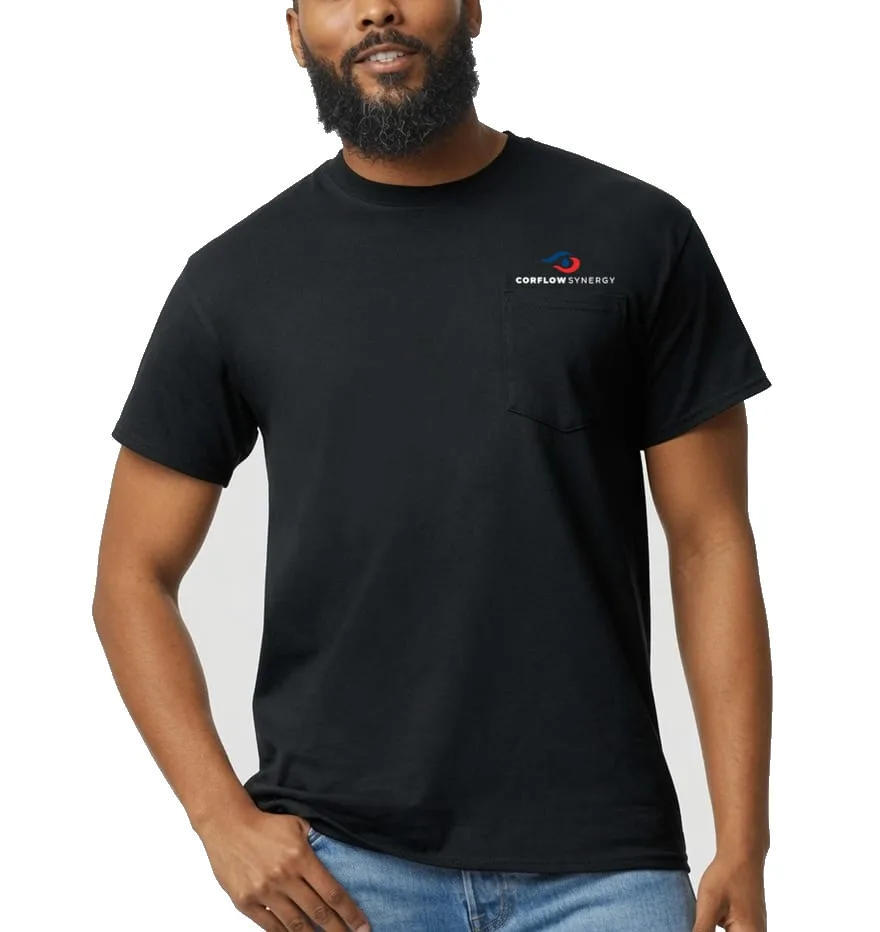
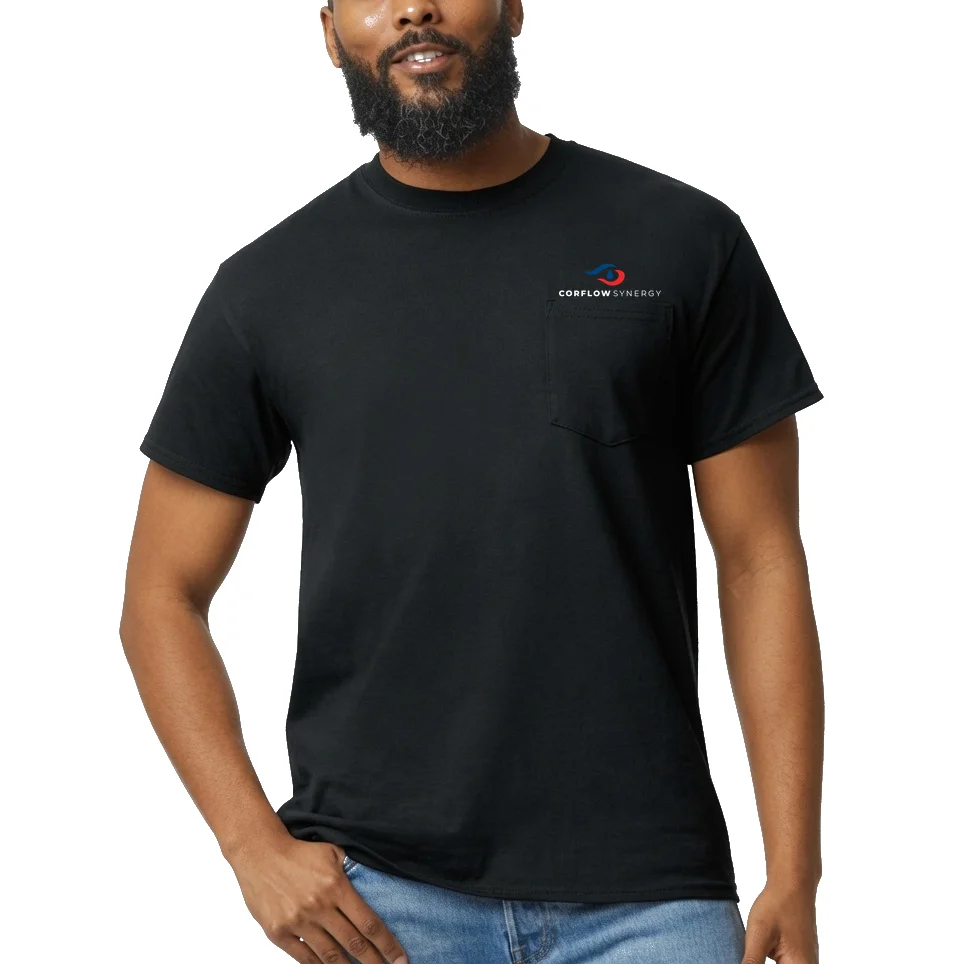
Add G2300 navy option, fix PDP category carousel, harden order confirmation
- SG-2 (Gildan 2300): add navy (#1f2a44) swatch + 4 per-portal navy
  composites; regenerate black from the same blank pipeline aligned to a
  common model bbox so black/navy crop identically and the logo doesn't
  shift on colour switch (placement x,y is the box top-left, logo
  contain-centred in the box).
- PDP "More {category}" carousel: derive the visible-category set straight
  from CLOTHING_CATEGORIES / SAFETY_CATEGORIES instead of a stale hardcoded
  map, so T-Shirts / Headwear / Accessories / Safety show their own run
  instead of falling back to "More Apparel".
- Order integrity: gate the checkout success page on Stripe
  payment_status === "paid" (payment is the source of truth) — a paid order
  always shows success and is never downgraded by a DB read issue; an
  unpaid/invalid session shows a non-success "couldn't confirm payment"
  state. Webhook now sends the confirmation email even if the DB finalize
  fails (so a paid order is always recorded) and returns 500 to let Stripe
  retry the write.

Claude-Session: https://claude.ai/code/session_01Ap4WcRUw5sFZDs2Pk52WQm

diff --git a/src/routes/checkout/success/index.tsx b/src/routes/checkout/success/index.tsx
@@ -1,7 +1,20 @@
 /**
  * Card-payment return page. Stripe redirects here with ?session_id=... after a
- * successful Checkout. The webhook is what actually finalizes the order; this
- * page just confirms to the customer and clears their cart.
+ * Checkout attempt. The webhook is what actually finalizes the order; this page
+ * CONFIRMS the outcome to the customer and clears their cart.
+ *
+ * INTEGRITY GATE — payment is the source of truth. Stripe's
+ * `payment_status === "paid"` is the ONE thing that decides success: if the
+ * customer was charged, they ALWAYS see "Thank you for your order!", because
+ * telling a paid customer their order failed is the worst possible outcome.
+ * The DB is consulted only best-effort, to show the SG order number; a DB read
+ * failure or a not-yet-finalized row NEVER downgrades a paid order to failure —
+ * the webhook (with Stripe retries) reconciles the DB write, and the order is
+ * recorded via Stripe + the confirmation email regardless.
+ *
+ * The NON-success "we couldn't confirm your payment" state shows ONLY when
+ * Stripe did not report a paid session (payment not completed, or an
+ * unknown/missing/invalid session) — i.e. no money was taken.
  */
 import { component$, useVisibleTask$ } from "@builder.io/qwik";
 import { routeLoader$, Link } from "@builder.io/qwik-city";
@@ -11,45 +24,72 @@ import { retrieveCheckoutSession } from "../../../lib/stripe";
 import { useAuthCheck } from "../../layout";
 import { portalBrand } from "../../../portals";
 
-export const useSession = routeLoader$(async ({ query, env }) => {
+interface SessionResult {
+  /** True ONLY when payment is confirmed AND the order row exists in the DB. */
+  confirmed: boolean;
+  orderNumber: string;
+  /** True once the webhook has flipped the order to 'paid' (number + email sent). */
+  finalized: boolean;
+}
+
+export const useSession = routeLoader$<SessionResult>(async ({ query, env }) => {
   // Dev simulated-payment path carries the assigned number directly (no Stripe).
+  // The order was already marked 'paid' + numbered by the simulated flow, so a
+  // number here means both payment and DB write happened.
   const devOrder = query.get("order") || "";
-  if (devOrder) return { ok: true as const, orderNumber: devOrder, paid: true };
+  if (devOrder) return { confirmed: true, orderNumber: devOrder, finalized: true };
 
   const sessionId = query.get("session_id") || "";
   const stripeKey = env.get("STRIPE_SECRET_KEY");
-  if (!sessionId || !stripeKey) return { ok: false as const, orderNumber: "", paid: false };
+  if (!sessionId || !stripeKey) return { confirmed: false, orderNumber: "", finalized: false };
+
   try {
     const s = await retrieveCheckoutSession(stripeKey, sessionId);
+    // THE gate: Stripe must confirm the card actually paid. This alone decides
+    // success — nothing about our DB can turn a paid order into a failure.
     const paid = s.payment_status === "paid";
-    // The SG number is assigned by the webhook at payment, so read it from the DB
-    // by order_id (it's no longer in Stripe metadata). May be empty if the webhook
-    // hasn't landed yet when this page loads — the confirmation email always
-    // carries the number regardless.
+    if (!paid) return { confirmed: false, orderNumber: "", finalized: false };
+
+    // Paid → the customer is confirmed. Best-effort DB read ONLY to show the SG
+    // number. Any failure here (DB down, row not written yet, webhook not landed)
+    // is swallowed and still returns confirmed:true — the webhook + Stripe
+    // retries reconcile the write, and the order lives in Stripe + the email.
     let orderNumber = "";
-    const orderId = s.metadata?.order_id || "";
-    const tursoUrl = env.get("TURSO_URL") || env.get("VITE_TURSO_URL");
-    const tursoToken = env.get("TURSO_AUTH_TOKEN") || env.get("VITE_TURSO_AUTH_TOKEN");
-    if (orderId && tursoUrl) {
-      try {
+    let finalized = false;
+    try {
+      const orderId = s.metadata?.order_id || "";
+      const tursoUrl = env.get("TURSO_URL") || env.get("VITE_TURSO_URL");
+      const tursoToken = env.get("TURSO_AUTH_TOKEN") || env.get("VITE_TURSO_AUTH_TOKEN");
+      if (orderId && tursoUrl) {
         const db = createClient({ url: tursoUrl, authToken: tursoToken || undefined });
-        const r = await db.execute({ sql: "SELECT order_no FROM orders WHERE id = ?", args: [orderId] });
-        const n = Number((r.rows[0] as any)?.order_no) || 0;
+        const r = await db.execute({
+          sql: "SELECT status, order_no FROM orders WHERE id = ?",
+          args: [orderId],
+        });
+        const row = r.rows[0] as any;
+        const n = Number(row?.order_no) || 0;
         if (n) orderNumber = `SG-${n}`;
-      } catch { /* ignore — fall back to the generic confirmation message */ }
-    }
-    return { ok: true as const, orderNumber, paid };
+        finalized = String(row?.status) === "paid";
+      }
+    } catch { /* DB best-effort only — never blocks a confirmed payment */ }
+
+    return { confirmed: true, orderNumber, finalized };
   } catch {
-    return { ok: false as const, orderNumber: "", paid: false };
+    // Could not retrieve the session at all → we have no proof of payment.
+    return { confirmed: false, orderNumber: "", finalized: false };
   }
 });
 
 export default component$(() => {
   const session = useSession();
+  const confirmed = session.value.confirmed;
 
-  // Clear the cart on a confirmed return (payment happened before this page).
+  // Clear the cart ONLY on a confirmed order (payment + DB placement). On an
+  // unconfirmed return we keep the cart so the customer can retry — same
+  // principle as the cm storefront's "don't clear on failure".
   // eslint-disable-next-line qwik/no-use-visible-task
   useVisibleTask$(() => {
+    if (!confirmed) return;
     try {
       for (let i = localStorage.length - 1; i >= 0; i--) {
         const k = localStorage.key(i);
@@ -59,6 +99,24 @@ export default component$(() => {
       window.dispatchEvent(new CustomEvent("cart-updated"));
     } catch { /* ignore */ }
   });
+
+  if (!confirmed) {
+    // NOT confirmed — never show an order-success message.
+    return (
+      <div class="checkout-result">
+        <div class="checkout-result__card">
+          <div class="checkout-result__icon checkout-result__icon--warn">
+            <svg width="34" height="34" viewBox="0 0 24 24" fill="none" stroke="currentColor" stroke-width="2.4" stroke-linecap="round" stroke-linejoin="round"><path d="M12 9v4" /><path d="M12 17h.01" /><path d="M10.29 3.86L1.82 18a2 2 0 0 0 1.71 3h16.94a2 2 0 0 0 1.71-3L13.71 3.86a2 2 0 0 0-3.42 0z" /></svg>
+          </div>
+          <h1 class="checkout-result__title">We couldn't confirm your payment</h1>
+          <p class="checkout-result__text">
+            Your card may not have been charged and your order has not been confirmed. Your cart has been kept — please try again, and if you were charged, contact us at info@synergygroupapparel.ca before re-ordering.
+          </p>
+          <Link href="/" class="btn btn--primary">Back to catalogue</Link>
+        </div>
+      </div>
+    );
+  }
 
   return (
     <div class="checkout-result">
@@ -70,7 +128,7 @@ export default component$(() => {
         <p class="checkout-result__text">
           {session.value.orderNumber
             ? `Order ${session.value.orderNumber} has been confirmed and sent for processing.`
-            : "It has been confirmed and sent for processing."}
+            : "Your payment is confirmed. Your order number and confirmation email are on their way."}
         </p>
         <Link href="/" class="btn btn--primary">Continue</Link>
       </div>

diff --git a/src/routes/api/stripe-webhook/index.ts b/src/routes/api/stripe-webhook/index.ts
@@ -65,21 +65,35 @@ export const onPost: RequestHandler = async ({ request, env, json }) => {
     return;
   }
 
-  // The customer's 50% card portion has now settled. Mark the order paid. The
-  // company's 50% is tracked separately via company_billing_status (left at
-  // 'pending_invoice' for the QuickBooks pipeline) — the order being 'paid' means
-  // the card half is captured and the order is confirmed for fulfilment.
-  await db.execute({
-    sql: "UPDATE orders SET status = 'paid', paid_at = datetime('now'), updated_at = datetime('now') WHERE id = ?",
-    args: [orderId as any],
-  });
+  // ---- Payment received — finalize -----------------------------------------
+  // The customer's 50% card portion has now settled. PAYMENT IS THE SOURCE OF
+  // TRUTH: whatever happens with our DB below, the money is captured and the
+  // order MUST be recorded somewhere (the confirmation email is that record).
+  //
+  // Mark the order paid + assign its SG number. If either DB write fails we do
+  // NOT lose the order: we still send the confirmation email (so it's recorded),
+  // then return 500 so Stripe RETRIES this webhook and the write is reconciled.
+  // The company's 50% is tracked separately via company_billing_status (left at
+  // 'pending_invoice' for the QuickBooks pipeline).
+  let orderNumber = "";
+  let dbWriteOk = true;
+  try {
+    await db.execute({
+      sql: "UPDATE orders SET status = 'paid', paid_at = datetime('now'), updated_at = datetime('now') WHERE id = ?",
+      args: [orderId as any],
+    });
+    // Assign the SG number once (idempotent on retries via `order_no IS NULL`).
+    // Cancelled/abandoned orders never reach here, so numbers stay gap-free.
+    orderNumber = await assignSynergyOrderNumber(db, orderId as any);
+  } catch (err) {
+    dbWriteOk = false;
+    console.error("Stripe webhook: payment WAS received but the DB finalize failed — sending the confirmation email so the order is recorded, and returning 500 so Stripe retries:", err);
+  }
 
-  // The order is paid — NOW assign its SG number (once; idempotent on retries).
-  // Cancelled/abandoned orders never reach this point, so they never burn a
-  // number and paid numbers stay gap-free.
-  const orderNumber = await assignSynergyOrderNumber(db, orderId as any);
-
-  // Send the confirmation email (items from DB, everything else from metadata).
+  // Send the confirmation email (items from the row we already fetched above,
+  // everything else from Stripe metadata). This runs whether or not the DB write
+  // succeeded, so a paid order is always recorded even if our DB is misbehaving.
+  // sendConfirmationEmail never throws.
   const apiKey = env.get("RESEND_API_KEY") || env.get("VITE_RESEND_API_KEY");
   if (apiKey) {
     let items: OrderItem[] = [];
@@ -115,6 +129,15 @@ export const onPost: RequestHandler = async ({ request, env, json }) => {
       },
     };
     await sendConfirmationEmail({ apiKey, from: fromAddress, staffAddresses }, emailData);
+  }
+
+  if (!dbWriteOk) {
+    // Payment captured + order emailed, but the DB wasn't updated. 500 → Stripe
+    // retries; the retry re-runs the UPDATE (status still isn't 'paid', so it
+    // isn't short-circuited above) and reconciles the row. The order is never
+    // lost — worst case a paid order is emailed twice before the write lands.
+    json(500, { error: "payment received and order emailed, but DB finalize failed — retrying" });
+    return;
   }
 
   json(200, { received: true });

diff --git a/src/portal-images.ts b/src/portal-images.ts
@@ -24,7 +24,7 @@ export const PORTAL_SKU_IMAGES: Record<string, Record<string, PortalImageOverrid
   // portal1 = Airtech, portal2 = Corflow, portal3 = Wired, portal4 = Powered.
   portal1: {
     "SG-1": { img: "/portals/g2000-as.jpg", imgs: ["/portals/g2000-as.jpg", "/portals/g2000-navy-as.png", "/portals/g2000-red-as.png"] },
-    "SG-2": { img: "/portals/g2300-as.jpg", imgs: ["/portals/g2300-as.jpg"] },
+    "SG-2": { img: "/portals/g2300-as.jpg", imgs: ["/portals/g2300-as.jpg", "/portals/g2300-navy-as.png"] },
     "SG-3": { img: "/portals/g2400-as.jpg", imgs: ["/portals/g2400-as.jpg", "/portals/g2400-navy-as.png", "/portals/g2400-red-as.png"] },
     "SG-4": { img: "/portals/1370399-as.jpg", imgs: ["/portals/1370399-as.jpg", "/portals/1370399-red-as.png", "/portals/1370399-navy-as.png"] },
     "SG-5": { img: "/portals/106674-as.png", imgs: ["/portals/106674-as.png"] },
@@ -50,7 +50,7 @@ export const PORTAL_SKU_IMAGES: Record<string, Record<string, PortalImageOverrid
   },
   portal2: {
     "SG-1": { img: "/portals/g2000-cf.jpg", imgs: ["/portals/g2000-cf.jpg", "/portals/g2000-navy-cf.png", "/portals/g2000-red-cf.png"] },
-    "SG-2": { img: "/portals/g2300-cf.jpg", imgs: ["/portals/g2300-cf.jpg"] },
+    "SG-2": { img: "/portals/g2300-cf.jpg", imgs: ["/portals/g2300-cf.jpg", "/portals/g2300-navy-cf.png"] },
     "SG-3": { img: "/portals/g2400-cf.jpg", imgs: ["/portals/g2400-cf.jpg", "/portals/g2400-navy-cf.png", "/portals/g2400-red-cf.png"] },
     "SG-4": { img: "/portals/1370399-cf.jpg", imgs: ["/portals/1370399-cf.jpg", "/portals/1370399-red-cf.png", "/portals/1370399-navy-cf.png"] },
     "SG-5": { img: "/portals/106674-cf.png", imgs: ["/portals/106674-cf.png"] },
@@ -75,7 +75,7 @@ export const PORTAL_SKU_IMAGES: Record<string, Record<string, PortalImageOverrid
   },
   portal3: {
     "SG-1": { img: "/portals/g2000-ws.jpg", imgs: ["/portals/g2000-ws.jpg", "/portals/g2000-navy-ws.png", "/portals/g2000-red-ws.png"] },
-    "SG-2": { img: "/portals/2300-ws.jpg", imgs: ["/portals/2300-ws.jpg"] },
+    "SG-2": { img: "/portals/2300-ws.jpg", imgs: ["/portals/2300-ws.jpg", "/portals/g2300-navy-ws.png"] },
     "SG-3": { img: "/portals/g2400-ws.jpg", imgs: ["/portals/g2400-ws.jpg", "/portals/g2400-navy-ws.png", "/portals/g2400-red-ws.png"] },
     "SG-4": { img: "/portals/1370399-ws.jpg", imgs: ["/portals/1370399-ws.jpg", "/portals/1370399-red-ws.png", "/portals/1370399-navy-ws.png"] },
     "SG-5": { img: "/portals/106674-ws.jpg", imgs: ["/portals/106674-ws.jpg"] },
@@ -101,7 +101,7 @@ export const PORTAL_SKU_IMAGES: Record<string, Record<string, PortalImageOverrid
   },
   portal4: {
     "SG-1": { img: "/portals/g2000-ps.jpg", imgs: ["/portals/g2000-ps.jpg", "/portals/g2000-navy-ps.png", "/portals/g2000-red-ps.png"] },
-    "SG-2": { img: "/portals/g2300-ps.jpg", imgs: ["/portals/g2300-ps.jpg"] },
+    "SG-2": { img: "/portals/g2300-ps.jpg", imgs: ["/portals/g2300-ps.jpg", "/portals/g2300-navy-ps.png"] },
     "SG-3": { img: "/portals/g2400-ps.jpg", imgs: ["/portals/g2400-ps.jpg", "/portals/g2400-navy-ps.png", "/portals/g2400-red-ps.png"] },
     "SG-4": { img: "/portals/1370399-ps.jpg", imgs: ["/portals/1370399-ps.jpg", "/portals/1370399-red-ps.png", "/portals/1370399-navy-ps.png"] },
     "SG-5": { img: "/portals/106674-ps.png", imgs: ["/portals/106674-ps.png"] },

diff --git a/src/routes/apparel/[sku]/index.tsx b/src/routes/apparel/[sku]/index.tsx
@@ -6,6 +6,7 @@ import { LocaleContext, t } from "../../../i18n";
 import { allProducts, colorName, categoryLabel } from "../products";
 import { TALL_PRICE } from "../../../lib/pricing";
 import { portalizeProduct } from "../../../portal-images";
+import { CLOTHING_CATEGORIES, SAFETY_CATEGORIES } from "../../../components/product-catalog/product-catalog";
 import { expandSizes, sizeGroups, sortColorsWhiteLast } from "../utils";
 import { LoginTypeContext, useAuthCheck } from "../../layout";
 import { portalBrand } from "../../../portals";
@@ -589,15 +590,17 @@ export default component$(() => {
         // Apparel" pulled from every visible category, instead of a
         // single-category list with a "cat.Pants" / "cat.Work Wear"
         // un-translated heading.
-        // Must mirror the catalog's category tabs (product-catalog.tsx:
-        // CLOTHING_CATEGORIES / SAFETY_CATEGORIES, minus "All"). When a product's
-        // category isn't listed here it's treated as "not a tab" and the carousel
-        // falls back to broad "More Apparel" — which is why Polos / Sweaters / the
-        // Office kit were reverting to Apparel instead of showing their own run.
+        // Derived STRAIGHT from the catalog's own category tabs so it can't go
+        // stale: safety logins use SAFETY_CATEGORIES, tech is a single "Work Wear"
+        // catalog, everything else uses CLOTHING_CATEGORIES (both minus "All").
+        // A hardcoded copy previously drifted out of sync — it omitted T-Shirts,
+        // Headwear, Accessories & Safety, so those PDPs fell back to the broad
+        // "More Apparel" run instead of their own category.
+        const dropAll = (cats: string[]) => cats.filter((c) => c !== "All");
         const visibleByLogin: Record<string, string[]> = {
-          clothing: ["Jackets", "Sweaters", "Shirts", "Polos", "Hats", "SWAG", "New Hire Kit"],
+          clothing: dropAll(CLOTHING_CATEGORIES),
           tech: ["Work Wear"],
-          safety: ["Flame Resistant", "Shirts", "Hats"],
+          safety: dropAll(SAFETY_CATEGORIES),
         };
         const visible = visibleByLogin[loginType.value] || visibleByLogin.clothing;
         const sameCategory = allProducts.filter((r) => r.sku !== p.sku && r.sku !== "CAR-12" && r.category === p.category).slice(0, 8);

diff --git a/src/components/product-catalog/product-catalog.tsx b/src/components/product-catalog/product-catalog.tsx
@@ -26,7 +26,7 @@ export const CLOTHING_CATEGORIES = ["All", "T-Shirts", "Polos", "Jackets", "Swea
 const SAFETY_SKU_PREFIX = "MNFR-";
 const SAFETY_EXTRA_SKUS = new Set(["MN-2", "MN-3", "MN-5", "MN-6"]);
 const SAFETY_HIDDEN_SKUS = new Set(["MNFR-5", "MNFR-6"]); // FR Insulated Bib & Jacket
-const SAFETY_CATEGORIES = ["All", "Flame Resistant", "Shirts", "Hats"];
+export const SAFETY_CATEGORIES = ["All", "Flame Resistant", "Shirts", "Hats"];
 // Explicit display order for the Safety "All" view: FR shirt + hoodies,
 // FR pants, then the standard-SKU allowlist (short-sleeve tee,
 // long-sleeve tee, ball cap, toque).

diff --git a/src/global.css b/src/global.css
@@ -6520,6 +6520,7 @@ details[open] > .cart-drawer__checkout-title::after {
   color: #fff;
 }
 .checkout-result__icon--ok { background: #1f9d55; }
+.checkout-result__icon--warn { background: #d97706; }
 .checkout-result__icon--cancel { background: var(--ce-gray-400); }
 .checkout-result__title { font-size: 1.4rem; font-weight: 800; color: var(--ce-gray-900); margin: 0 0 0.6rem; }
 .checkout-result__text { font-size: 0.95rem; line-height: 1.6; color: var(--ce-gray-600); margin: 0 0 1.5rem; }

diff --git a/src/routes/apparel/products.ts b/src/routes/apparel/products.ts
@@ -29,7 +29,8 @@ export const allProducts = [
     "sizes": "S - 3XL",
     "badge": "",
     "colors": [
-      "#1a1a18"
+      "#1a1a18",
+      "#1f2a44"
     ],
     "price": 16,
     "img": "/tshirtblack.png",
